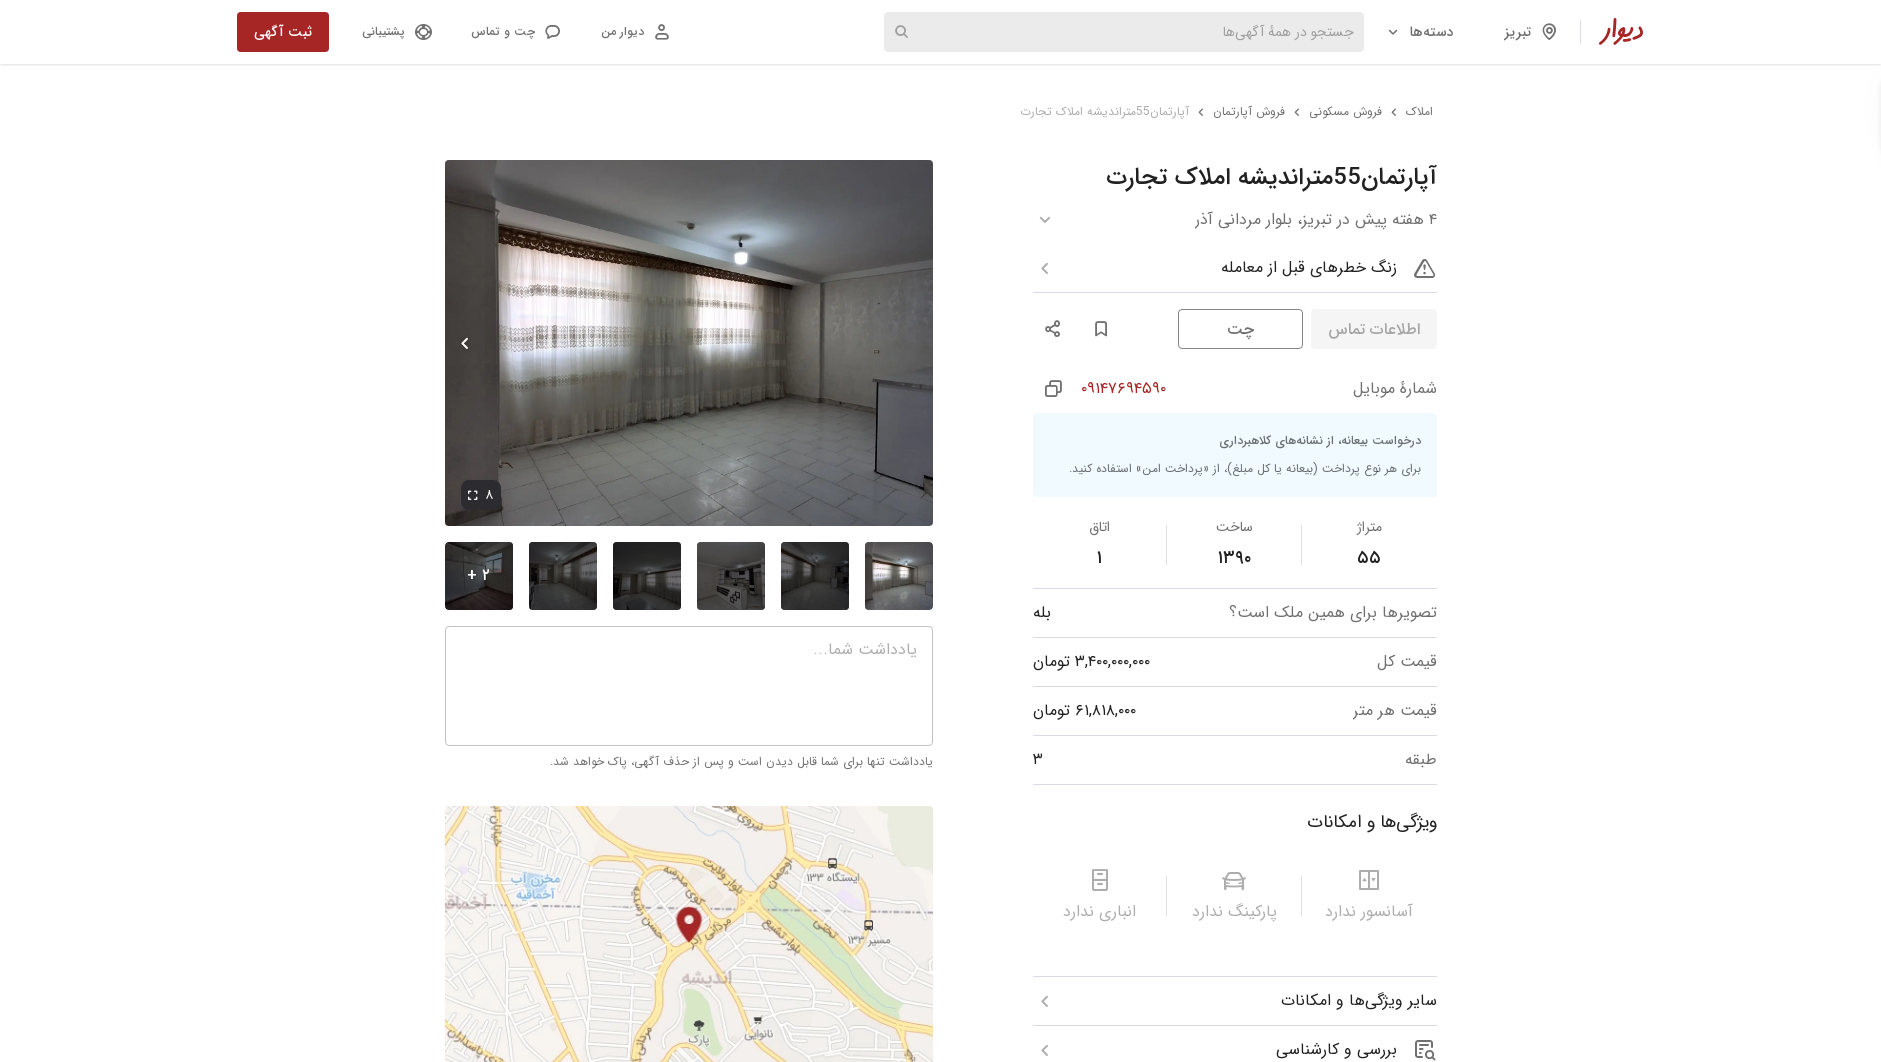
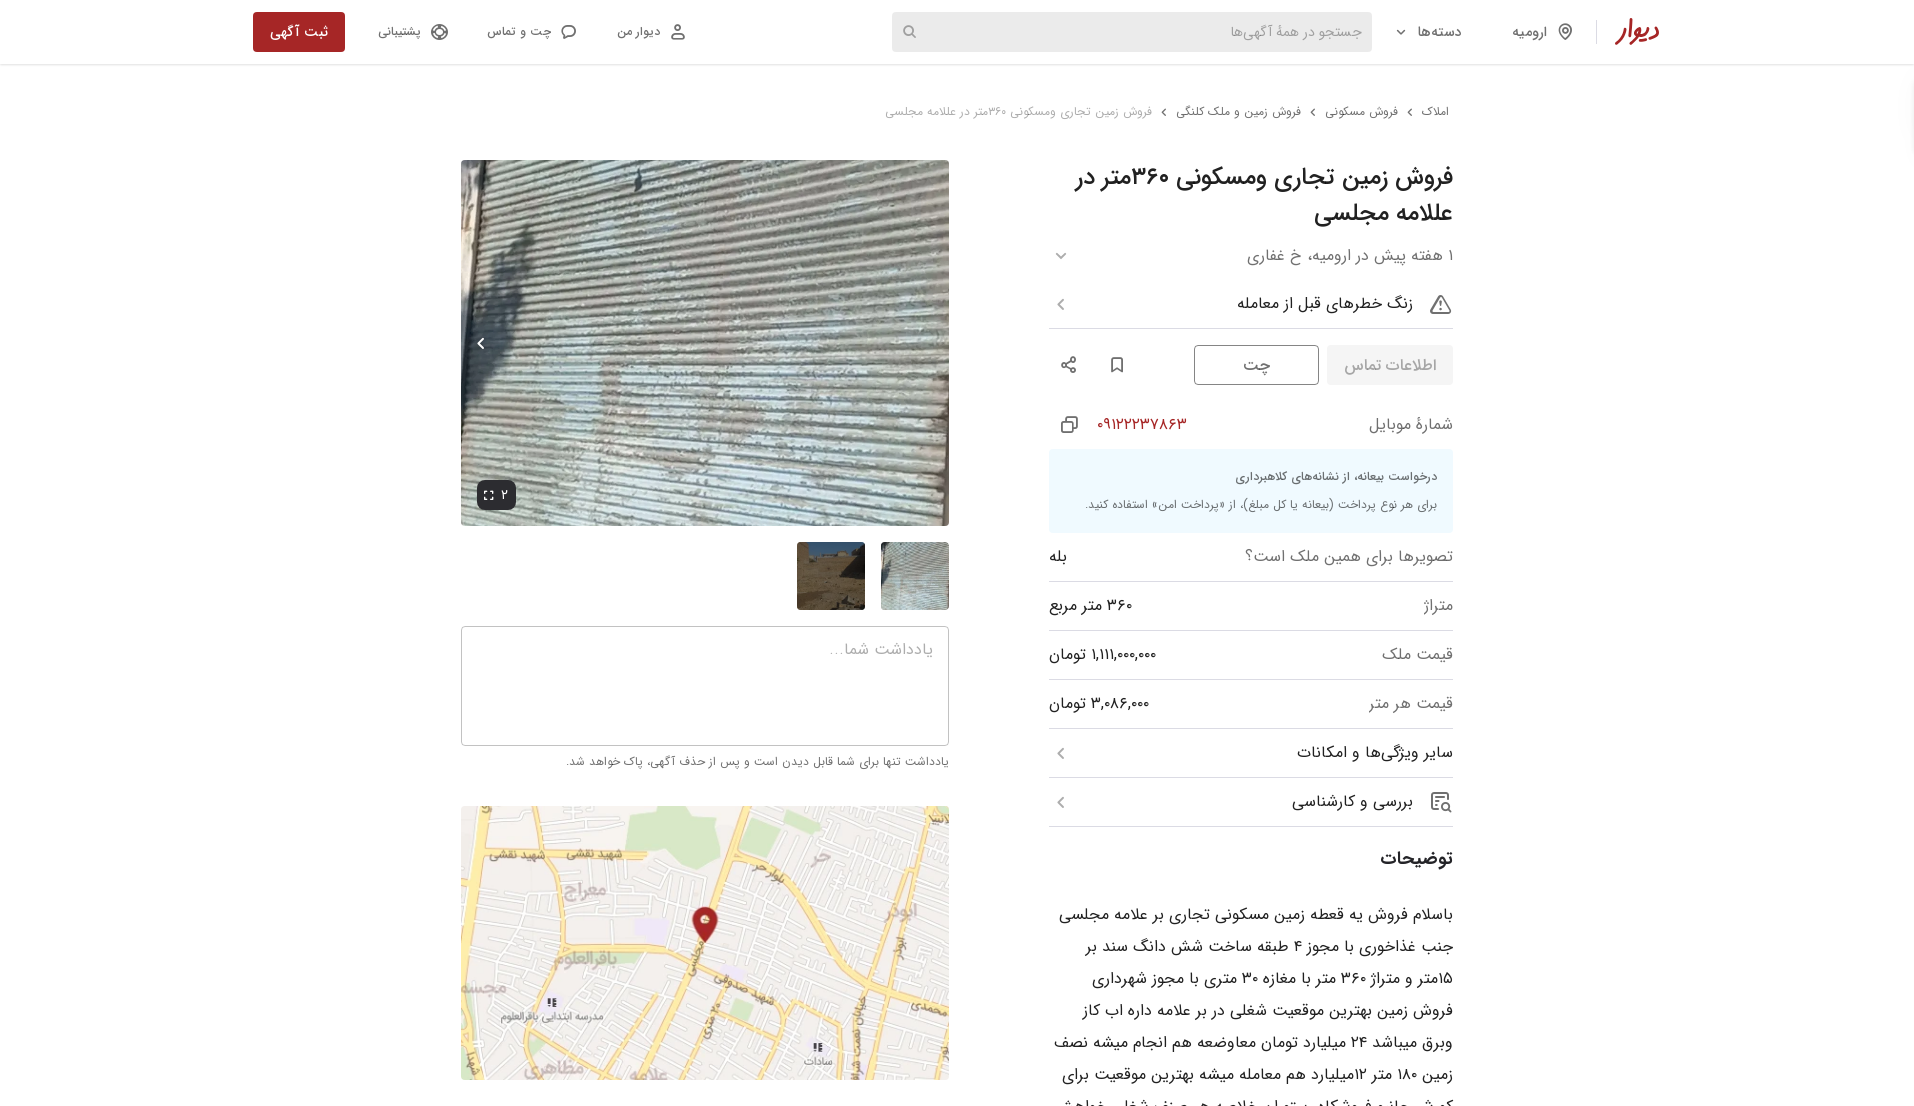
fix(scraper): stop dropping residential listings on bare-token URLs
The category guard rejected any detail page whose final URL lacked an
expected slug substring. But listing URLs are built as bare /v/<token>
and Divar only adds a descriptive slug on redirect for some of them, so
~80% of valid listings were skipped (4/21). Also added ساختمان/دوبلکس/منزل
to residential patterns. Now falls back to the search-result title when
the URL carries no category signal.

diff --git a/scripts/deploy_remote.py b/scripts/deploy_remote.py
@@ -1,0 +1,132 @@
+"""
+Remote deploy helper for sorinflow.com via paramiko (password or key auth).
+
+Usage:
+    SORIN_PW=<password> python scripts/deploy_remote.py
+
+On first run it installs the local SSH public key into the server's
+authorized_keys so subsequent runs can use key-based auth (no password).
+Then it runs the standard local-registry deploy and streams output.
+"""
+import os
+import sys
+from pathlib import Path
+
+import paramiko
+
+HOST = "sorinflow.com"
+USER = "admin"
+PORT = 22
+
+PUBKEY_PATH = Path.home() / ".ssh" / "id_rsa.pub"
+
+DEPLOY_CMD = (
+    "set -e; "
+    "cd /tmp/sorin-new 2>/dev/null || git clone "
+    "https://github.com/Tecso-Dev/SorinFlow-DaTA-mAmager.git /tmp/sorin-new; "
+    "cd /tmp/sorin-new && git fetch origin && git reset --hard origin/main && "
+    "docker build -t localhost:5000/sorinflow-backend:latest . && "
+    "docker push localhost:5000/sorinflow-backend:latest && "
+    "kubectl set image deployment/sorinflow-backend "
+    "sorinflow-backend=localhost:5000/sorinflow-backend:latest -n sorinflow && "
+    "kubectl rollout status deployment/sorinflow-backend -n sorinflow --timeout=300s"
+)
+
+
+def connect() -> paramiko.SSHClient:
+    client = paramiko.SSHClient()
+    client.set_missing_host_key_policy(paramiko.AutoAddPolicy())
+    pw = os.environ.get("SORIN_PW")
+    key_file = Path.home() / ".ssh" / "id_rsa"
+    # Try key-based auth first (silent if it works), fall back to password
+    try:
+        client.connect(HOST, port=PORT, username=USER,
+                       key_filename=str(key_file), timeout=20,
+                       allow_agent=False, look_for_keys=False)
+        print("[deploy] connected via SSH key")
+        return client
+    except Exception as e:
+        print(f"[deploy] key auth failed ({e}); trying password")
+    if not pw:
+        print("ERROR: key auth failed and SORIN_PW not set", file=sys.stderr)
+        sys.exit(2)
+    # Try plain password auth
+    try:
+        client.connect(HOST, port=PORT, username=USER, password=pw, timeout=20,
+                       allow_agent=False, look_for_keys=False)
+        print("[deploy] connected via password")
+        return client
+    except paramiko.AuthenticationException:
+        print("[deploy] password auth failed; trying keyboard-interactive")
+
+    # Fall back to keyboard-interactive (many servers use this instead of 'password')
+    transport = paramiko.Transport((HOST, PORT))
+    transport.start_client(timeout=20)
+
+    def handler(title, instructions, prompt_list):
+        return [pw for _ in prompt_list]
+
+    try:
+        transport.auth_interactive(USER, handler)
+    except paramiko.SSHException:
+        # Some paramiko versions need auth_interactive_dumb
+        transport.auth_interactive_dumb(USER, handler)
+    if not transport.is_authenticated():
+        print("ERROR: all auth methods failed", file=sys.stderr)
+        sys.exit(3)
+    client._transport = transport
+    print("[deploy] connected via keyboard-interactive")
+    return client
+
+
+def install_pubkey(client: paramiko.SSHClient) -> None:
+    if not PUBKEY_PATH.exists():
+        print("[deploy] no local pubkey to install; skipping")
+        return
+    pub = PUBKEY_PATH.read_text().strip()
+    # Add the key only if it isn't already present
+    cmd = (
+        "mkdir -p ~/.ssh && chmod 700 ~/.ssh && touch ~/.ssh/authorized_keys && "
+        f"grep -qF '{pub}' ~/.ssh/authorized_keys || echo '{pub}' >> ~/.ssh/authorized_keys; "
+        "chmod 600 ~/.ssh/authorized_keys && echo PUBKEY_OK"
+    )
+    _, stdout, stderr = client.exec_command(cmd, timeout=30)
+    out = stdout.read().decode(errors="replace").strip()
+    err = stderr.read().decode(errors="replace").strip()
+    if "PUBKEY_OK" in out:
+        print("[deploy] public key installed (future deploys are passwordless)")
+    else:
+        print(f"[deploy] pubkey install issue: out={out} err={err}")
+
+
+def run_deploy(client: paramiko.SSHClient) -> int:
+    print("[deploy] starting deploy — streaming output...\n" + "-" * 60)
+    chan = client.get_transport().open_session()
+    chan.get_pty()
+    chan.exec_command(f"bash -lc \"{DEPLOY_CMD}\"")
+    while True:
+        if chan.recv_ready():
+            data = chan.recv(4096).decode(errors="replace")
+            sys.stdout.write(data)
+            sys.stdout.flush()
+        if chan.exit_status_ready() and not chan.recv_ready():
+            break
+    # Drain remaining
+    while chan.recv_ready():
+        sys.stdout.write(chan.recv(4096).decode(errors="replace"))
+    code = chan.recv_exit_status()
+    print("\n" + "-" * 60 + f"\n[deploy] exit code = {code}")
+    return code
+
+
+def main() -> int:
+    client = connect()
+    try:
+        install_pubkey(client)
+        return run_deploy(client)
+    finally:
+        client.close()
+
+
+if __name__ == "__main__":
+    sys.exit(main())

diff --git a/app/scraper/divar_scraper.py b/app/scraper/divar_scraper.py
@@ -49,8 +49,8 @@ class DivarScraper:
         'buy-apartment':  ['آپارتمان', 'اپارتمان', 'واحد'],
 
         # Residential (broad): title is the property type alone — no buy/rent prefix
-        'rent-residential': ['آپارتمان', 'اپارتمان', 'خانه', 'ویلا', 'مسکونی', 'واحد', 'سوئیت', 'اجاره-مسکن'],
-        'buy-residential':  ['آپارتمان', 'اپارتمان', 'خانه', 'ویلا', 'مسکونی', 'واحد', 'سوئیت', 'کلنگی'],
+        'rent-residential': ['آپارتمان', 'اپارتمان', 'خانه', 'ویلا', 'مسکونی', 'واحد', 'سوئیت', 'اجاره-مسکن', 'ساختمان', 'دوبلکس', 'منزل'],
+        'buy-residential':  ['آپارتمان', 'اپارتمان', 'خانه', 'ویلا', 'مسکونی', 'واحد', 'سوئیت', 'کلنگی', 'ساختمان', 'دوبلکس', 'منزل'],
 
         # Villa
         'rent-villa': ['ویلا', 'باغ-ویلا'],
@@ -986,12 +986,17 @@ class DivarScraper:
             return None
     
     async def scrape_property_detail(
-        self, url: str, target_category: Optional[str] = None
+        self, url: str, target_category: Optional[str] = None,
+        source_title: Optional[str] = None,
     ) -> Optional[Dict[str, Any]]:
         """Scrape detailed information from a property page.
 
-        target_category: if provided, the final URL must match the expected
-        patterns for that category (prevents off-category listings from being saved).
+        target_category: if provided, the final URL (or the search-result title)
+        must match the expected patterns for that category (prevents off-category
+        listings from being saved).
+        source_title: the listing title captured from the category-filtered
+        search results, used as a fallback category signal when Divar serves a
+        bare /v/<token> URL with no descriptive slug.
         """
         try:
             logger.info(f"Scraping property detail: {url}")
@@ -1015,10 +1020,16 @@ class DivarScraper:
             # with real-estate (e.g. "دفتری" matching "دفتر").
             if target_category and target_category in self.CATEGORY_URL_PATTERNS:
                 patterns = self.CATEGORY_URL_PATTERNS[target_category]
-                if not any(p in decoded_url for p in patterns):
+                # Listing URLs are built as bare /v/<token>; Divar only adds a
+                # descriptive slug for some of them on redirect, so the URL alone
+                # carries no category signal for the rest. Fall back to the title
+                # from the (already category-filtered) search result so bare-token
+                # listings aren't all dropped — reject only when NEITHER matches.
+                haystack = f"{decoded_url} {source_title or ''}"
+                if not any(p in haystack for p in patterns):
                     logger.info(
                         f"Skipping off-category listing for '{target_category}' "
-                        f"(URL: {decoded_url})"
+                        f"(URL: {decoded_url}, title: {source_title!r})"
                     )
                     return False  # sentinel: category skip — not a scrape error
             else:
@@ -2143,7 +2154,10 @@ class DivarScraper:
                         continue
                     
                     # Scrape detail page
-                    detail = await self.scrape_property_detail(listing['url'], target_category=category)
+                    detail = await self.scrape_property_detail(
+                        listing['url'], target_category=category,
+                        source_title=listing.get('title'),
+                    )
                     
                     if detail:
                         # Merge with listing data
